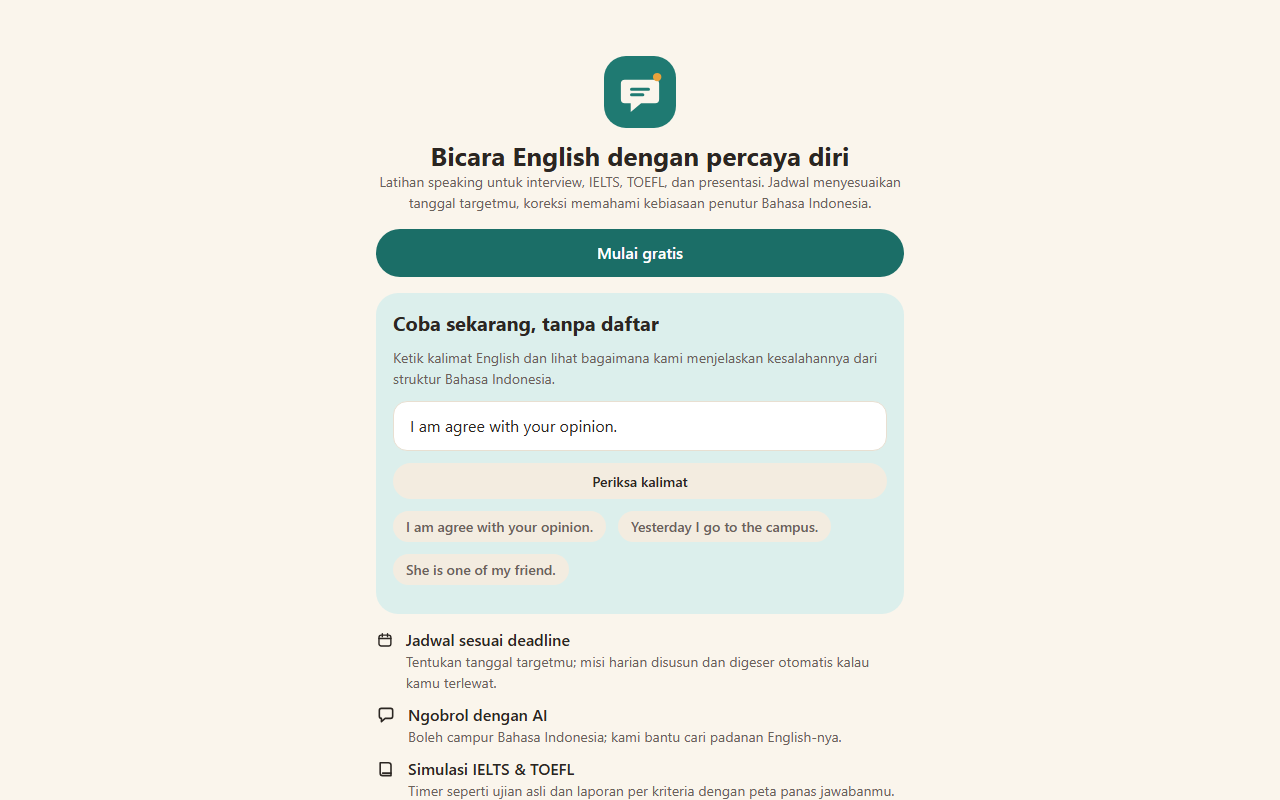
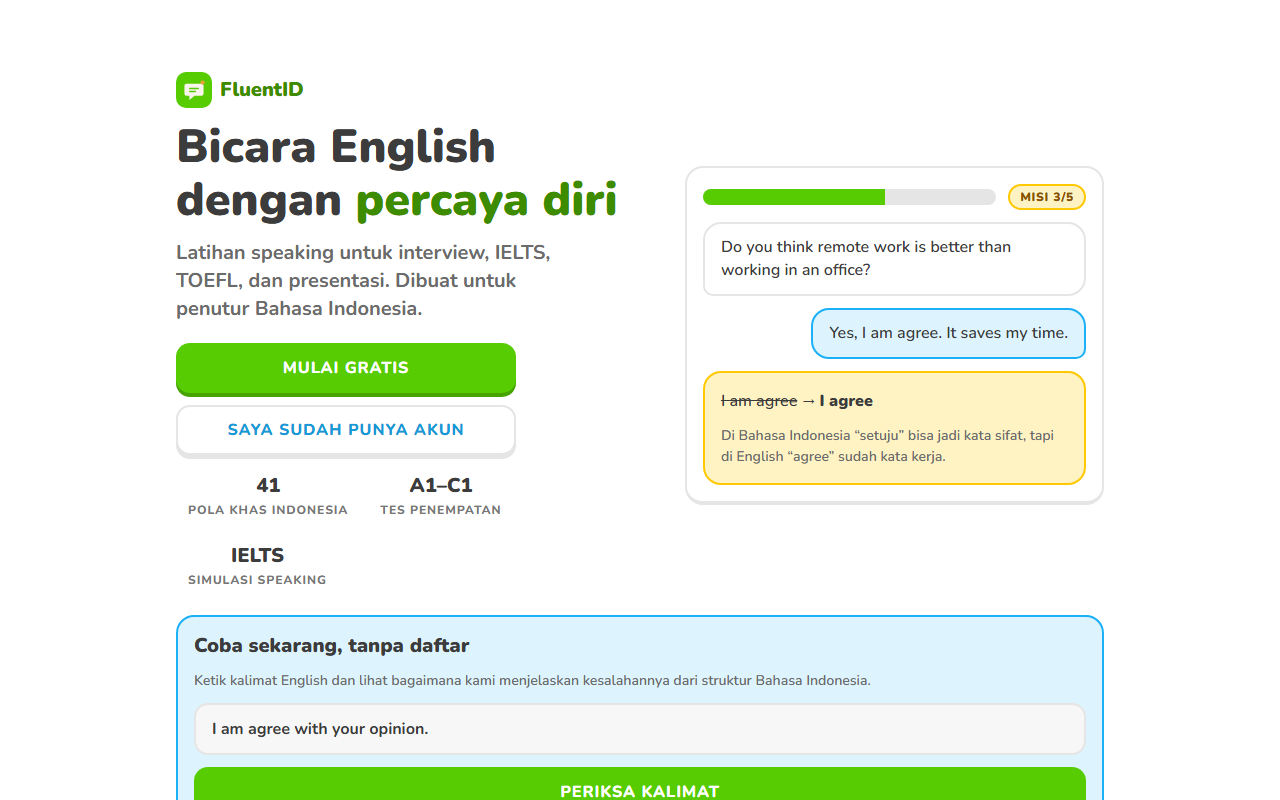
feat(projects): mark JobPilot, FluentID, EcoRank as in progress without links; refresh FluentID capture

diff --git a/src/data/projects.js b/src/data/projects.js
@@ -3,11 +3,10 @@ export const projects = [
     id: 7,
     title: "JobPilot: Truthful AI Job-Search Copilot",
     description: "Job seekers in Indonesia and Malaysia lose hours every week checking career pages, rewriting the same CV and screening scam postings, while most AI resume tools invent achievements or lock users into paid APIs. JobPilot watches official employer job boards, scores every opening 0-100 against what you have actually done, builds a tailored CV and interview cheat-sheet, and tracks each application through to the offer. Tailoring is extractive and a validator blocks any number, skill or claim that cannot be traced back to your CV. It runs at $0 inference cost on deterministic rules, supports Bahasa and English, flags local scam patterns, and never sends anything without your approval.",
-    badge: "In progress · Private repo",
-    status: "private",
+    badge: "In progress",
+    status: "wip",
     image: "/photo/jobpilot.png",
     tags: ["Python", "FastAPI", "Playwright", "PWA", "NLP"],
-    demoUrl: "https://jobpilot.vercel.app",
   },
   {
     id: 8,
@@ -23,8 +22,8 @@ export const projects = [
     id: 9,
     title: "FluentID: Adaptive English Speaking Coach for Indonesians",
     description: "Many Indonesian learners know English grammar yet freeze when speaking, and generic apps never explain why their mistakes happen. FluentID is an AI speaking platform that schedules practice backwards from your target date for IELTS, TOEFL or interviews. Its engine detects 41 Indonesian-influenced error patterns (such as 'I am agree') and explains each one from Bahasa Indonesia structure. Features include placement testing with CEFR levels, AI conversation with code-switching, IELTS and TOEFL speaking simulators with band prediction, spaced repetition from your own mistakes, and data export and deletion aligned with UU PDP. It is a zero-budget MVP: FastAPI, SQLite and in-browser speech.",
-    badge: "In progress · Private repo",
-    status: "private",
+    badge: "In progress",
+    status: "wip",
     image: "/photo/fluentid.png",
     tags: ["Python", "FastAPI", "PWA", "NLP", "Speech AI"],
   },
@@ -32,8 +31,8 @@ export const projects = [
     id: 10,
     title: "EcoRank: Gamified Green Commuting",
     description: "Millions of people walk, cycle and ride public transit every day and nobody notices, because fitness apps only reward workouts. EcoRank turns green commutes into a social game with weekly leagues, squad wars and shareable FlexCards showing CO2 saved. A tuned points engine with daily caps and server-side speed and GPS validation keeps competition fair, so a road trip never outranks a month of daily walks, and anomalies stay off the leaderboard. Built as a mobile-first PWA on Next.js and Supabase, with a Row Level Security data layer, an Edge Function trip pipeline and a documented PRD and sprint plan.",
-    badge: "In progress · Private repo",
-    status: "private",
+    badge: "In progress",
+    status: "wip",
     image: "/photo/ecorank.png",
     tags: ["Next.js", "TypeScript", "Supabase", "PWA", "Gamification"],
   },

diff --git a/src/components/ProjectsShowcase.jsx b/src/components/ProjectsShowcase.jsx
@@ -1,7 +1,7 @@
 import { useEffect, useState } from "react";
 import { Link } from "react-router-dom";
 import { AnimatePresence, motion as Motion, useReducedMotion } from "framer-motion";
-import { ArrowLeft, ArrowRight, ArrowUpRight, ExternalLink, Github, Lock, Trophy } from "lucide-react";
+import { ArrowLeft, ArrowRight, ArrowUpRight, Clock, ExternalLink, Github, Lock, Trophy } from "lucide-react";
 import { cn } from "@/lib/utils";
 import { projects } from "@/data/projects";
 
@@ -125,7 +125,7 @@ export const ProjectsShowcase = () => {
                 <Motion.div variants={itemVariants} className="flex flex-wrap items-center gap-3">
                   {project.badge && (
                     <span className="inline-flex items-center gap-2 rounded-full border border-primary/40 bg-primary/10 px-3 py-1 text-xs font-medium text-primary">
-                      {project.status === "private" ? <Lock size={13} /> : <Trophy size={13} />}
+                      {project.status === "private" ? <Lock size={13} /> : project.status === "wip" ? <Clock size={13} /> : <Trophy size={13} />}
                       {stripEmoji(project.badge)}
                     </span>
                   )}
@@ -167,10 +167,12 @@ export const ProjectsShowcase = () => {
                       View on GitHub
                     </a>
                   ) : (
-                    <span className="inline-flex items-center gap-2 rounded-full border border-border px-4 py-2 text-xs text-muted-foreground">
-                      <Lock size={14} />
-                      Source code private while in development
-                    </span>
+                    project.status === "private" && (
+                      <span className="inline-flex items-center gap-2 rounded-full border border-border px-4 py-2 text-xs text-muted-foreground">
+                        <Lock size={14} />
+                        Source code private while in development
+                      </span>
+                    )
                   )}
                   {project.demoUrl && (
                     <a

diff --git a/src/pages/ProjectDetail.jsx b/src/pages/ProjectDetail.jsx
@@ -1,5 +1,5 @@
 import { Link, useParams } from "react-router-dom";
-import { ArrowLeft, ArrowUpRight, ExternalLink, Github, Lock } from "lucide-react";
+import { ArrowLeft, ArrowUpRight, Clock, ExternalLink, Github, Lock } from "lucide-react";
 import { projects } from "@/data/projects";
 import { projectDetails } from "@/data/projectDetails";
 import { Reveal } from "@/components/motion/Reveal";
@@ -38,7 +38,7 @@ export const ProjectDetail = () => {
 
         {project.badge && (
           <span className="inline-flex items-center gap-2 rounded-full border border-primary/40 bg-primary/10 px-3 py-1 text-xs font-medium text-primary">
-            {project.status === "private" && <Lock size={13} />}
+            {project.status === "private" ? <Lock size={13} /> : <Clock size={13} />}
             {stripEmoji(project.badge)}
           </span>
         )}
@@ -60,9 +60,11 @@ export const ProjectDetail = () => {
               <Github size={16} /> View on GitHub
             </a>
           ) : (
-            <span className="inline-flex items-center gap-2 rounded-full border border-border px-4 py-2 text-xs text-muted-foreground">
-              <Lock size={14} /> Source code private while in development
-            </span>
+            project.status === "private" && (
+              <span className="inline-flex items-center gap-2 rounded-full border border-border px-4 py-2 text-xs text-muted-foreground">
+                <Lock size={14} /> Source code private while in development
+              </span>
+            )
           )}
         </div>
       </Reveal>

diff --git a/src/data/projectDetails.js b/src/data/projectDetails.js
@@ -18,7 +18,7 @@ export const projectDetails = {
       { group: "Frontend", items: ["Installable PWA", "Vanilla JS"] },
       { group: "Infra", items: ["Docker", "Vercel", "Local-first data"] },
     ],
-    status: "Hosted beta. Source code is private while the product is in development.",
+    status: "Currently in progress. Core flows work end to end and the product is still being refined.",
   },
   8: {
     tagline: "Anti-ticket assistant for Jakarta's ganjil-genap (odd-even plate) rule.",
@@ -65,7 +65,7 @@ export const projectDetails = {
       { group: "Quality", items: ["Pytest", "node:test", "axe-core"] },
       { group: "Infra", items: ["Docker", "Render"] },
     ],
-    status: "Zero-budget MVP. Source code is private while the product is in development.",
+    status: "Currently in progress as a zero-budget MVP that is being refined and expanded.",
   },
   10: {
     tagline: "Your commute is a game. Play it green.",
@@ -87,6 +87,6 @@ export const projectDetails = {
       { group: "Quality", items: ["Vitest", "ESLint", "Commitlint"] },
       { group: "Planning", items: ["PRD v2.0", "Sprint and engineering plans"] },
     ],
-    status: "Phase 0 pilot build. Source code is private while the product is in development.",
+    status: "Currently in progress, in the Phase 0 pilot build.",
   },
 };

diff --git a/src/components/FeaturedWork.jsx b/src/components/FeaturedWork.jsx
@@ -1,4 +1,4 @@
-import { ArrowUpRight, Lock, Trophy } from "lucide-react";
+import { ArrowUpRight, Clock, Lock, Trophy } from "lucide-react";
 import { Link } from "react-router-dom";
 import { projects } from "@/data/projects";
 import { Reveal, StaggerContainer, StaggerItem } from "@/components/motion/Reveal";
@@ -50,7 +50,7 @@ export const FeaturedWork = () => {
                   />
                   {project.badge && (
                     <span className="absolute left-3 top-3 inline-flex items-center gap-1.5 rounded-full border border-primary/40 bg-background/85 px-2.5 py-1 text-xs font-medium text-primary backdrop-blur">
-                      {project.status === "private" ? <Lock size={12} /> : <Trophy size={12} />}
+                      {project.status === "private" ? <Lock size={12} /> : project.status === "wip" ? <Clock size={12} /> : <Trophy size={12} />}
                       {stripEmoji(project.badge)}
                     </span>
                   )}
